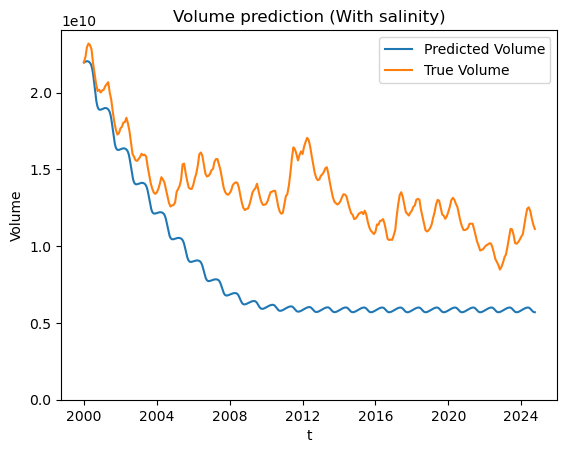
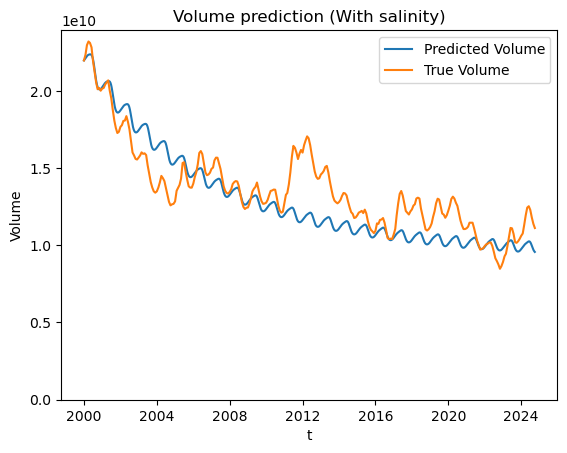
Latex file upgrades >:)

diff --git a/project.tex b/project.tex
@@ -30,9 +30,9 @@ In this paper, we develop a differential equation to model the dynamics of the G
 \section{Introduction}
 The Great Salt Lake (GSL) is of great ecological importance to Utah's environment. In recent years, its footprint has been shrinking. Understanding the dynamics of the lake, specifically the rate at which it is shrinking and what it would take to reverse that shrinking, will allow researchers and citizens of Utah to understand how much time the Great Salt Lake has left. In this paper, we design and analyze a simplified model to understand the dynamics of the Great Salt Lake using an Ordinary Differential Equation. The differential equation is comprised of an inflow function and an outflow function. This project investigates how changes in the inflow and outflow of the Lake will affect its overall volume, including the effect of human usage. 
 
-Lake dynamics and the GSL specifically have been the subject of research by ecologists for the better part of a century. State-of-the-art models of the Great Salt Lake separate the lake into its North and South arms and modeling the South arm as two distinct layers: the Upper Brine Layer and a saltier Deep Brine Layer that form due to the higher density of hypersaline water. Water exchange between the arms of the lake is understood to occur at multiple bays, with individual rates that depend on the elevation of the lake and salinity gradients between the arms of the lake (Dunn 2025 et al). In this model, we treat the lake as a homogeneous body of water, aggregating the salinities of the two arms of the lake by averaging them over surface area. While this is unconventional, it simplifies the problem significantly, allowing us to focus on modeling other features in more detail. 
+Lake dynamics, and the GSL specifically, have been the subject of research by ecologists for the better part of a century. State-of-the-art models of the Great Salt Lake separate the lake into its North and South arms and model the South arm as two distinct layers: the Upper Brine Layer and a saltier Deep Brine Layer that forms due to the higher density of hypersaline water. Water exchange between the arms of the lake is understood to occur at multiple bays, with individual rates that depend on the elevation of the lake and salinity gradients between the arms of the lake (Dunn 2025 et al). In this model, we treat the lake as a homogeneous body of water, aggregating the salinities of the two arms of the lake by averaging them over surface area. While this is unconventional, it simplifies the problem significantly, allowing us to focus on modeling other features in more detail. 
 
-Our goal in modeling was to investigate the simplest possible model that is still able to capture the inherent nature of the system. According to sensitivity analysis of the system by Mohammed et al., the volume of the lake is most sensitive to changes in inflow from streams and evaporation rate (Mohammed and Tarboton, 2012). Note that inflow from streams is significantly impacted by water diversion for farming and other human usage, so this is the primary control mechanism available to legislation that aims to preserve the lake. Mohammed et all. also found that the variables with the most significant stabilizing effects on water volume are lake surface area and salinity. Both of these variables lead to decreased evaporation when the lake is at a low volume and increased evaporation when the lake is at a high volume, mitigating extreme changes in lake volume. The results of this paper motivate the primary variables we focus on modeling and analyzing, which are: inflow, evaporation, and salinity. We calculate evaporation rate while accounting for the effect of salinity required using a modified Penman equation (standard practice in lake dynamics, see Mohommed et. al, Dunn et al.), which requires choosing functions for humidity and temperature. We also include a term for precipitation to increase the realism of our model and better explain the historical change in lake volume. 
+Our goal in modeling was to investigate the simplest possible model that is still able to capture the inherent nature of the system. According to sensitivity analysis of the system by Mohammed et al., the volume of the lake is most sensitive to changes in inflow from streams and evaporation rate \cite{mohammed2012}. Note that inflow from streams is significantly impacted by water diversion for farming and other human usage, so this is the primary control mechanism available to legislation that aims to preserve the lake. Mohammed et all. also found that the variables with the most significant stabilizing effects on water volume are lake surface area and salinity. Both of these variables lead to decreased evaporation when the lake is at a low volume and increased evaporation when the lake is at a high volume, mitigating extreme changes in lake volume. The results of this paper motivate the primary variables we focus on modeling and analyzing, which are: inflow, evaporation, and salinity. We calculate evaporation rate while accounting for the effect of salinity required using a modified Penman equation (standard practice in lake dynamics, see Mohommed et. al, Dunn et al.), which requires choosing functions for humidity and temperature. We also include a term for precipitation to increase the realism of our model and better explain the historical change in lake volume. 
 
 The function describing the historical volume of the lake can be most accurately recreated using actual data for precipitation, humidity, and temperature, because this method accounts for the variation of the lake due to unpredictable weather effects. However, this method is unable to produce projections for the future of the lake, because exact data for future temperature and precipitation are unknown. Some papers address this using Monte Carlo methods, where possible weather outcomes are simulated using thousands of random draws of distributions that can be derived from historical data (Tarboton 2026 et al). Such simulations allow researchers to report credible intervals of simulation results for lake volume. In this project, for the sake of simplicity, we opted for a deterministic method where the future of the lake is simulated using interpolated periodic functions for weather variables. Thus our simulations should be interpreted as point estimates for the progression of the lake from some initial conditions assuming it experiences "average" seasonal precipitation, temperature, and humidity. 
 
@@ -75,9 +75,8 @@ This is a nonautonomous ODE, whose order can depend on different factors of the 
 
 \subsection{Inflow}
 There are three main tributaries that flow into the Great Salt Lake. For this model, 
-we decide that the inflow, $I(t)$, is a sum of the volume passing from each tributary, recorded daily near the mouth of each from 1998 to the present, and of precipitation multiplied by the surface area of the lake.
-To derive a single, analytical function that can model the inflow from rivers, we noted its periodic nature, and made the decision to model it as a sum of two sinusoidal functions, and use scipy.optimize.curve\_fit to fit amplitude, frequency, and phase parameters. 
-We similarly fit a sinusoidal function multiplied by the surface area of the lake to precipitation data recorded at two different weather stations around the lake.
+we decided that the inflow, $I(t)$, is a sum of the volume passing from each tributary, recorded daily near the mouth of each from 1998 to the present, and of precipitation multiplied by the surface area of the lake.
+To derive a single, analytical function that can model the inflow from rivers, we noted its periodic nature, and made the decision to model it as a sum of two sinusoidal functions, and use scipy.optimize.curve\_fit to fit amplitude, frequency, and phase parameters. We similarly fit a sinusoidal function to precipitation data recorded at two different weather stations around the lake.
 
 
 Accepting that a decrease in flow from the tributaries is a major factor in the shrinking of the Great Salt Lake,
@@ -85,17 +84,6 @@ we investigated how water diversion and basin depletion have affected the inflow
 Unfortunately we were able to find any quantitave answers that suggested a certain function to model the decrease in inflow,
 so we decided to incorporate a simple linear decrease to the inflow function to model increased tributaroy depletion over the two decades.
 The graph of inflow data and the fitted function are shown in Figure~\ref{fig:inflow}.
-
-Our final inflow function is:
-\begin{equation*}
-    I_{\text{rivers}}(t) = -28.973\sin(\frac{2\pi t}{365} - 23.202) - 18.437\sin(\frac{4\pi t}{365} -4.293) - 45.523t
-\end{equation*}
-\begin{equation*}
-    I_{\text{precipitation}}(t) = \text{precip}(t) \cdot 3.625E-4\sin(0.0172t + 0.555) + 0.00107
-\end{equation*}
-\begin{equation}
-    I(t) = I_{\text{rivers}}(t) + I_{\text{precipitation}}(t)
-\end{equation}
 
 \begin{figure}[h]
   \includegraphics[width=\linewidth]{basic_inflow.png}
@@ -131,39 +119,116 @@ To capture the way salinity of the water at the surface changes with volume, we 
     \label{fig:surface_salinity}
 \end{figure}
 
+\subsection{Models}
+
+We now present our various attempts at modeling the volume of the GSL. We use the python library scipy's method solve\_ivp to numerically solve our differential equation given an initial value for the volume of the lake. We plot our historical solutions against the true volume of the lake starting at January 1st, 2000. For reference, the total lake volume since 1840 is plotted in Figure~\ref{fig:lake_volume}. 
+For each model, we plot it using both our fitted sine functions for inflow and using empirical inflow data. 
+
+\subsubsection{Model 1: No salinity}
+
+We first ran our model assuming a freshwater lake. This increases the rate of evaporation as salinity moderates evaporation. The results are plotted in Figure~\ref{fig:model_1}. The plot on the left uses the fitted sine functions for both inflow from rivers and precipitation. This model lacks the random spikes in inflow, which can be seen in Figure~\ref{fig:inflow}. Because of this, and the lack of salinity, the lake slowly dries up and by about 2014, is completely gone. 
+
+The plot on the right however, uses empirical inflow data and thus, better models the randomness in weather. This model better follows the shape of the true volume curve but because it still lacks salinity, the curve is well below the true volume. 
+
+\begin{figure}[h]
+    \centering
+    \includegraphics[width=0.4\textwidth]{Vol_pred_fitted_no_salt.png}
+    \includegraphics[width=0.4\textwidth]{Vol_pred_empirical_no_salt.png}
+    \caption{Model 1 with fitted sine functions for both inflow from rivers and precipitation}
+    \label{fig:model_1}
+\end{figure}
+
+    % \centering
+    % \includegraphics[width=0.4\textwidth]{avg_eFGperc.png}\hspace{0.02\textwidth}
+    % \includegraphics[width=0.4\textwidth]{avg_TOVperc.png}
+    % \caption{}
+    % \label{fig:three}
+
+\subsubsection{Model 2: Weighted average of salinity}
+
+In our next model, we decided to include salinity. As stated in the introduction, the lake is split into two halves each with different salinities. In this model, we took a weighted average of those salinities and incorporated them into the evaporation function. In Figure~\ref{fig:model_2}, we plot this model using both fitted functions for inflow and empirical inflow.  
+
+\begin{figure}[h]
+    \centering
+    \includegraphics[width=0.4\textwidth]{Vol_pred_fitted_salt.png}
+    \includegraphics[width=0.4\textwidth]{Vol_pred_empirical_salt.png}
+    \caption{Model 2 with weighted average salinity}
+    \label{fig:model_2}
+\end{figure}
+
+\subsubsection{Model 3: Two halves salinity}
+
+For model three, we decided to model the salinity of the two halves of the lake separately.
+
+\begin{figure}[h]
+    \centering
+    \includegraphics[width=0.4\textwidth]{Vol_pred_fitted_salt_improved.png}
+    \includegraphics[width=0.4\textwidth]{Vol_pred_empirical_salt_improved.png}
+    \caption{Model 3}
+    \label{fig:model_3}
+\end{figure}
+
+\subsubsection{Model 4: Future predictions and human usage}
+
+Here, we decided to extend our model to future predictions. We could no longer use empirical historical data; we could only use our fitted functions. The results are show in Figure~\ref{fig:model_4}. We started our future predictions on January 1st, 2026 with the initial value being the volume of the lake on that day. The graph on the left shows our results for just the fitted functions and the graph on the right shows the results with human usage added in. To add in human usage, we reduced inflow by a factor 0.5 to see what would happen to the volume of the lake if half of the water going into the lake was diverted. 
+
+Interestingly, this model shows the volume of the lake increasing and stabilizing at an equilibrium point. Most likely, because of the periodicity of the functions we fit for inflow and evaporation, our differential equation has an equilibrium where our solution stabilizes. 
+
+\begin{figure}[h]
+    \centering
+    \includegraphics[width=0.4\textwidth]{future_preds.png}
+    \includegraphics[width=0.4\textwidth]{future_preds_human_usage.png}
+    \caption{Model 4}
+    \label{fig:model_4}
+\end{figure}
+
+\subsubsection{Model 5: Future predictions with random inflow spikes}
+
 \section{Results}
 
-\section{Analysis}
 
-\subsection{Nondimensionalization}
 
-We begin our nondimensionalization by introducing the following constants: 
-\begin{itemize}
-\item $V_0$: The typical volume of the lake
-\item $A_0$: The typical area of the lake
-\item $I_0$: The typical inflow of the lake
-\item $E_0$: The typical evaporation rate of the lake.
-\end{itemize}
+\section{Analysis/Conclusions}
 
-We also define new, dimensionless variables $v = \frac{V}{V_0}$ and $\tau = \frac{t}{T}$. With that, we have the conversion $V = vV_0$ and $t = \tau T$. Substituting these variables into our ODE, we have $\frac{V_0}{T}\frac{dv}{d\tau} = I(\tau T) - E(\tau T)A(vV_0)$. We will define a new surface area function $a(v) = \frac{A(vV_0)}{A_0}$. We substitute this into the equation and divide both sides by $I_0$ to get $\frac{V_0}{I_0T}\frac{dv}{d\tau} = \frac{I(\tau T)}{I_0} - \frac{E(\tau T)A_0}{I_0}a(v)$. Setting $T = \frac{V_0}{I_0}$ and defining a new parameter $\gamma = \frac{A_0E_0}{I_0}$, the nondimensionalized equation becomes \[
-\frac{dv}{d\tau} = \frac{I(t)}{I_0} - \gamma\frac{E(t)}{E_0}a(v)
-\]
+% \subsection{Nondimensionalization}
 
-\subsection{Equilibria}
+% We begin our nondimensionalization by introducing the following constants: 
+% \begin{itemize}
+% \item $V_0$: The typical volume of the lake
+% \item $A_0$: The typical area of the lake
+% \item $I_0$: The typical inflow of the lake
+% \item $E_0$: The typical evaporation rate of the lake.
+% \end{itemize}
 
-Assuming typical or average inflow and evaporation rate, $I_0$ and $E_0$ respectively, our new nondimensionalized system becomes $\frac{dv}{d\tau} = 1 - \gamma a(v)$. So, our equilibria occur where $a(v) = \frac{1}{\gamma} = \frac{I_0}{A_0E_0}$. What this tells us, is that assuming a constant inflow and evaporation rate, around the typical rates we would have an equilibrium point around whichever value for volume gives an area of $a(v) = \frac{1}{\gamma}$.
+% We also define new, dimensionless variables $v = \frac{V}{V_0}$ and $\tau = \frac{t}{T}$. With that, we have the conversion $V = vV_0$ and $t = \tau T$. Substituting these variables into our ODE, we have $\frac{V_0}{T}\frac{dv}{d\tau} = I(\tau T) - E(\tau T)A(vV_0)$. We will define a new surface area function $a(v) = \frac{A(vV_0)}{A_0}$. We substitute this into the equation and divide both sides by $I_0$ to get $\frac{V_0}{I_0T}\frac{dv}{d\tau} = \frac{I(\tau T)}{I_0} - \frac{E(\tau T)A_0}{I_0}a(v)$. Setting $T = \frac{V_0}{I_0}$ and defining a new parameter $\gamma = \frac{A_0E_0}{I_0}$, the nondimensionalized equation becomes \[
+% \frac{dv}{d\tau} = \frac{I(t)}{I_0} - \gamma\frac{E(t)}{E_0}a(v)
+% \]
 
-\subsection{Stability Analysis}
+% \subsection{Equilibria}
 
-Since we have an equilibrium for $v*$ where $a(v*) = \frac{1}{\gamma}$, we linearize the system around that equilibrium point to determine its stability. Taking $\frac{dv}{d\tau} = f(v) = 1 - \gamma a(v)$, we have $f'(v) = -\gamma a'(v)$. So, we have two cases: i) if $a'(v) > 0$, then $f'(v) < 0$ and the equilibrium is stable or ii) if $a'(v) < 0$, then $f'(v) > 0$ and the equilibrium is unstable. It is reasonable to assume that $a'(v) > 0$ since surface area should increase as volume increases.
+% Assuming typical or average inflow and evaporation rate, $I_0$ and $E_0$ respectively, our new nondimensionalized system becomes $\frac{dv}{d\tau} = 1 - \gamma a(v)$. So, our equilibria occur where $a(v) = \frac{1}{\gamma} = \frac{I_0}{A_0E_0}$. What this tells us, is that assuming a constant inflow and evaporation rate, around the typical rates we would have an equilibrium point around whichever value for volume gives an area of $a(v) = \frac{1}{\gamma}$.
 
-\section{Conclusions}
+% \subsection{Stability Analysis}
+
+% Since we have an equilibrium for $v*$ where $a(v*) = \frac{1}{\gamma}$, we linearize the system around that equilibrium point to determine its stability. Taking $\frac{dv}{d\tau} = f(v) = 1 - \gamma a(v)$, we have $f'(v) = -\gamma a'(v)$. So, we have two cases: i) if $a'(v) > 0$, then $f'(v) < 0$ and the equilibrium is stable or ii) if $a'(v) < 0$, then $f'(v) > 0$ and the equilibrium is unstable. It is reasonable to assume that $a'(v) > 0$ since surface area should increase as volume increases.
 
 %-------------------------------------------------------%
 
 \begin{thebibliography}{9}
-\bibitem{}
-  place holder
+
+% Example
+% \bibitem{label}
+%   Author(s),
+%   \textit{Title of the Work},
+%   Journal/Publisher,
+%   Year.
+
+\bibitem{mohammed2012}
+  I.~N. Mohammed and D.~G. Tarboton,
+  \textit{An Examination of the Sensitivity of the Great Salt Lake
+  to Changes in Inputs},
+  Water Resources Research, vol.~48, W11511,
+  doi:10.1029/2012WR011908, 2012.
 
 \end{thebibliography}
 
